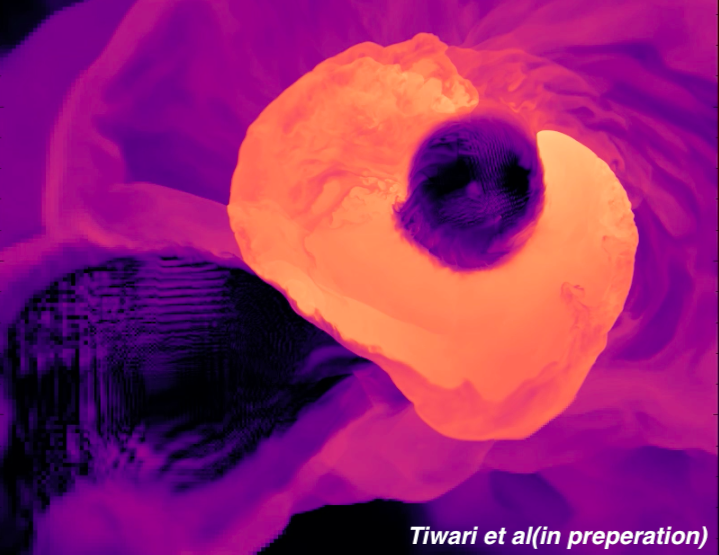
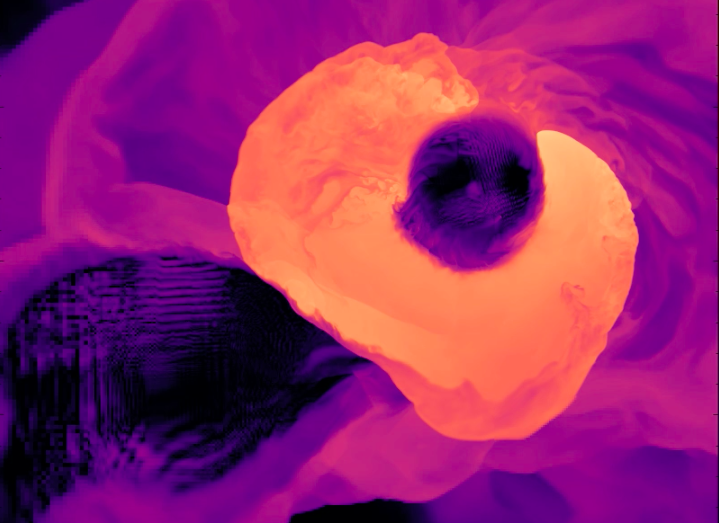
Updated the Research Tab of the website.

diff --git a/research.html b/research.html
@@ -89,8 +89,92 @@
   </div-->
 
   <div class="container">
+    <!-- RMHD CBD q=1.0-->
     <div class="site-block-half d-block d-lg-flex">
-      <div class="image bg-image order-2" style="background-image: url(images/temp_d6.png); background-repeat:no-repeat; background-size: contain; margin-top: 100px; " data-aos="fade-up"
+      <div class="image bg-image order-2" style="background-image: url(images/RMHD_CBD_EqualMass.png); background-repeat:no-repeat; background-size: contain; margin-top: 100px; " data-aos="fade-up"
+        data-aos-delay="200">
+      </div>
+      <!--div class="site-section-heading text-left mb-5 w-border"-->
+      <div class="text order-1 mb-5 w-border" data-aos="fade-up" id="RMHD_CBD_q1">
+        <h2 class="text-white mb-3">Radiation Magnetohydrodynamic Simulation of Circumbinary Disk around an Equal-mass Massive Black Hole Binary</h2>
+        <p class="lead"> 
+	  Electromagnetic (EM) emission from a massive black hole binary (MBHB) is produced by the gas that is accreted from a surrounding circumbinary disk (CBD), similar to an accretion disk around a single black hole. The binary's gravitational torque clears out a central, low-density cavity in the CBD, and gas from the inner edge of the CBD is periodically stripped into streams that feed the individual black holes, via minidisks around each massive black hole (MBH). Calculating these EM signatures from first principles is challenging, requiring a detailed understanding of the gas, radiation, and magnetic fields within the CBD and minidisks. 
+	   </p>
+	 <p class="lead">
+	  Here we performed the first Radiation Magnetohydrodynamic (RMHD) Simulation of a CBD around an equal-mass MBHB. We show that the CBD with radiation makes it thinner, denser and more filamentary than a locally isothermal MHD CBD, and show the importance of radiation for calculating the EM signatures of MBHB.
+</p>
+
+        <h5><a href="https://iopscience.iop.org/article/10.3847/1538-4357/add408">Paper - Link</a><h5>
+        <!--h5><a href="./RMHD_CBD_Equalmass.html">Videos - Link</a><h5-->
+	</p>
+      </div>
+    </div>
+    <!-- RMHD Simulation of minidisk around Masive Black Hole Binary-->
+    <div class="site-block-half d-block d-lg-flex">
+      <div class="image bg-image order-1" style="background-image: url(images/RMHD_minidisk_Equalmass.png); background-repeat:no-repeat;
+ background-size: contain; background-margin-top: 100px; " data-aos="fade-up"
+        data-aos-delay="200">
+      </div>
+      <div class="text order-1" data-aos="fade-up" id="late-time">
+        <h2 class="text-white mb-3">RMHD Simulation of sub-Eddington minidisks in an Equal-mass Massive Black Hole Binary</h2>
+        <p class="lead">
+	  Here our group performed the first RMHD simulation of a minidisk (led by Dr. Edwin Chan) in a 20 million solar mass MBHB system. Here we found that the minidisk becomes non-axisymmetric, producing anisotropic emission that varies with a half-orbital-period modulation.
+	</p>
+        <h5>Equal Mass ratio: <a href="https://iopscience.iop.org/article/10.3847/1538-4357/adf4c9">Paper - Link</a><h5>
+        <h5>10:1 Mass ratio: (in Prep.)<h5>
+      </div>
+    </div>
+    <!-- RMHD CBD q=0.1-->
+    <div class="site-block-half d-block d-lg-flex">
+      <div class="image bg-image order-2" style="background-image: url(images/RMHD_CBD_q0.1.png); background-repeat:no-repeat; background-size: contain; margin-top: 100px; " data-aos="fade-up"
+        data-aos-delay="200">
+      </div>
+      <!--div class="site-section-heading text-left mb-5 w-border"-->
+      <div class="text order-1 mb-5 w-border" data-aos="fade-up" id="RMHD_CBD_q0.1">
+        <h2 class="text-white mb-3">RMHD Simulation of Circumbinary Disk around a 10:1 Massive Black Hole Binary</h2>
+        <p class="lead"> 
+	  Here we performed Radiation Magnetohydrodynamic Simulation of a CBD around a circular binary with mass ratio 10:1. We found that the smaller cavity and the secondary's closer proximity to the inner edge of the CBD, as compared to the equal-mass case, drive higher variability in the far-UV/soft X-ray band of the spectrum, for a MBHB with a total mass of 20 million suns, separated by 100 gravitational radii.
+	   </p>
+	 <p class="lead">
+</p>
+
+        <h5><a href="https://arxiv.org/abs/2510.13955">Paper - Link</a><h5>
+        <!--h5><a href="./RMHD_CBD_Equalmass.html">Videos - Link</a><h5-->
+	</p>
+      </div>
+    </div>
+    <!-- Super-Eddington Minidisks-->
+    <div class="site-block-half d-block d-lg-flex">
+      <div class="image bg-image order-1" style="background-image: url(images/minidisk_superEdd.png); background-repeat:no-repeat;
+ background-size: contain; background-margin-top: 100px; " data-aos="fade-up"
+        data-aos-delay="200">
+      </div>
+      <div class="text order-1" data-aos="fade-up" id="late-time">
+        <h2 class="text-white mb-3">RMHD Simulation of super-Eddington minidisks in a 10:1 Massive Black Hole Binary</h2>
+        <p class="lead">
+	  Here we performed RMHD simulations of super-Eddington minidisks around the secondary massive black hole (of 1 million solar mass) in a 10:1 MBHB system. We found strong radiation-driven outflows in these minidisks.
+	</p>
+        <h5>Paper - in Prep.</a><h5>
+      </div>
+    </div>
+    <!--Eccentric Binaries-->
+    <div class="site-block-half d-block d-lg-flex">
+      <div class="image bg-image order-2" style="background-image: url(images/MHD_Eccentic.png); background-repeat:no-repeat;
+ background-size: contain; background-margin-top: 100px; " data-aos="fade-up"
+        data-aos-delay="200">
+      </div>
+      <div class="text order-1" data-aos="fade-up" id="late-time">
+        <h2 class="text-white mb-3">Magnetohydrodynamics Simulations of Circumbinary Disks around Eccentric Black Hole Binaries.</h2>
+        <p class="lead">
+	  We are exploring circumbinary disks around equal-mass black hole binaries.
+	</p>
+        <h5>Paper - in Prep.</a><h5>
+      </div>
+    </div>
+
+    <!-- D6 Paper-->
+    <div class="site-block-half d-block d-lg-flex">
+      <div class="image bg-image order-1" style="background-image: url(images/temp_d6.png); background-repeat:no-repeat; background-size: contain; margin-top: 100px; " data-aos="fade-up"
         data-aos-delay="200">
       </div>
       <!--div class="site-section-heading text-left mb-5 w-border"-->
@@ -100,9 +184,10 @@
 	   Type Ia supernovae are white dwarf stars composed of carbon and oxygen which undergo a thermonuclear explosion, but the nature of the progenitor stars and the mechanism of the explosion is highly debated.
 	   </p>
 	 <p class="lead">
-             Here we are exploring the double-degenerate channel in which we have two sub-Chandrashekar WDs, each with thin helium shells. During the accretion of He, it detonates on the surface of the primary and wraps around the white dwarf, colliding on the other side. This would lead to the second detonation of carbon, either on the edge or due to shock converge at the core, and thus leading to a Type Ia supernova event.
+             Here we are exploring the double-degenerate channel in which we have two sub-Chandrashekar WDs, each with thin helium shells. During the accretion of He, it detonates on the surface of the primary and wraps around the white dwarf, colliding on the other side. This would lead to the second detonation of carbon, either on the edge or due to shock convergence at the core, and thus leads to a Type Ia supernova event.
 </p>
 
+        <h5><a href="https://iopscience.iop.org/article/10.3847/2041-8213/ac75e7/meta">Paper Link</a><h5>
         <h5>Poster at HPC day, UMass Lowell - <a href="images/HPC_day_Poster.pdf">Link</a><h5>
         <h5>Videos - <a href="./D6.html">Link</a><h5>
 	</p>
@@ -113,12 +198,13 @@
  background-size: contain; background-margin-top: 100px; " data-aos="fade-up"
         data-aos-delay="200">
       </div>
-      <div class="text order-1" data-aos="fade-up" id="late-time">
+      <div class="text order-2" data-aos="fade-up" id="late-time">
         <h2 class="text-white mb-3">Comparing models of Type Ia supernovae with observations, using late-time light curves</h2>
         <p class="lead"> 
 	
-	Late-time light curves are thought to be powered by the radioactive decay of 57Co and provide an independent method to constrain the progenitors of Type Ia supernova. We compared five near-by Type Ias with simulation models of near-Chandrashekar and sub-Chandrashek ar white dwarfs, and see a clear distinction between the two types of progenitors. The red markers are the near-Chandra models while the blue ones are the sub-Chandra models. Color gradients represent the metallicity of the models.
+	Late-time light curves are thought to be powered by the radioactive decay of 57Co and provide an independent method to constrain the progenitors of Type Ia supernovae. We compared five nearby Type Ias with simulation models of near-Chandrashekar and sub-Chandrashekar ar white dwarfs, and saw a clear distinction between the two types of progenitors. The red markers are the near-Chandra models while the blue ones are the sub-Chandra models. Color gradients represent the metallicity of the models.
 	</p>
+        <h5><a href="https://academic.oup.com/mnras/article-abstract/515/3/3703/6611699?redirectedFrom=fulltext">Paper Link</a><h5>
       </div>
     </div>
  
